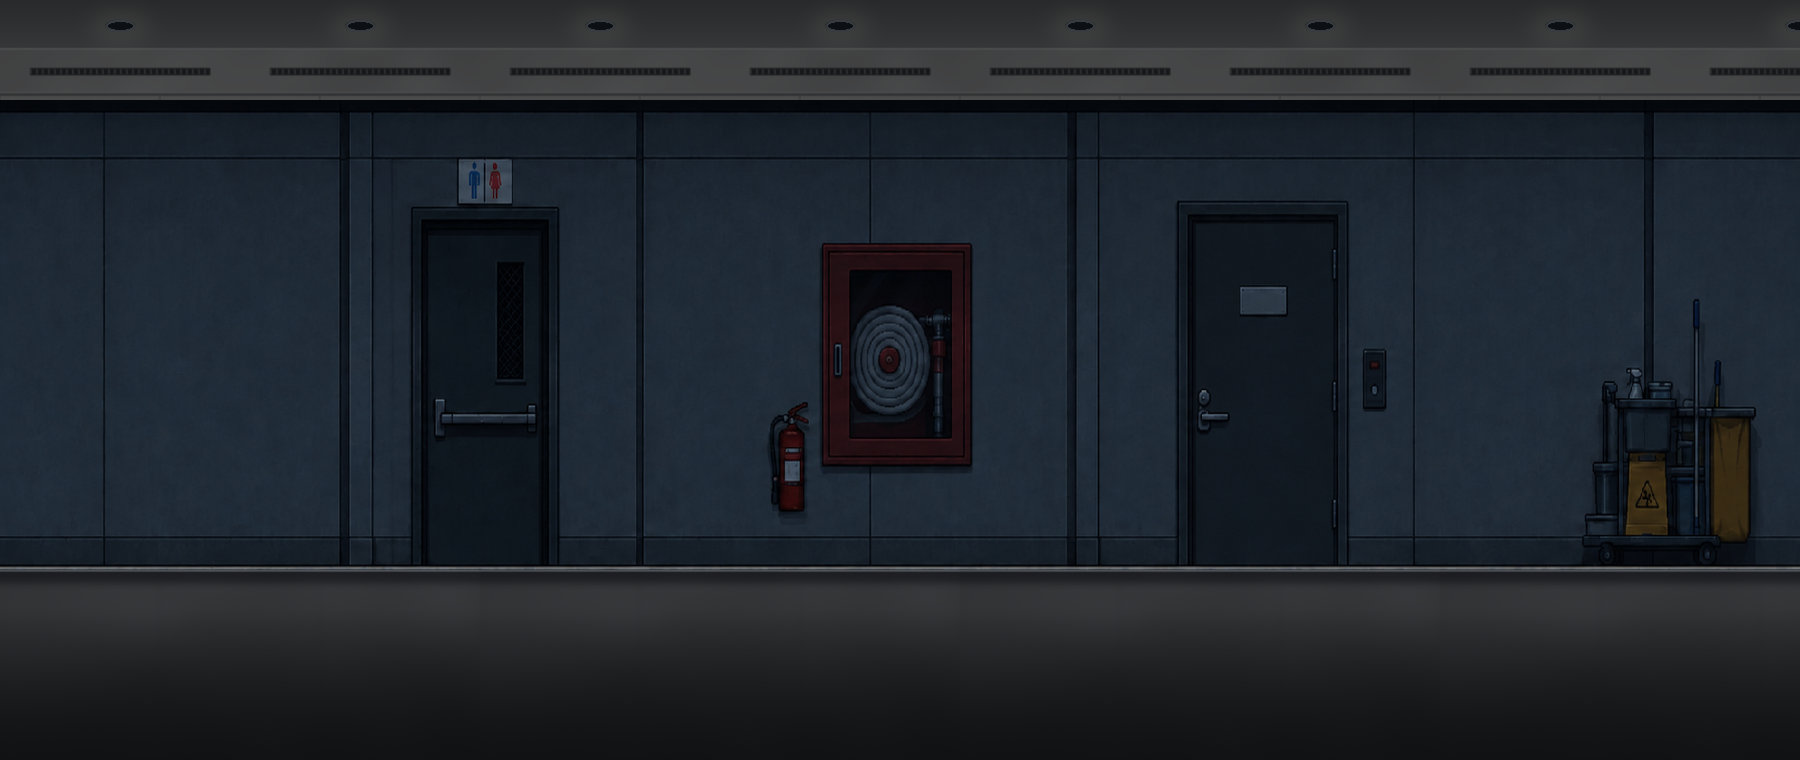
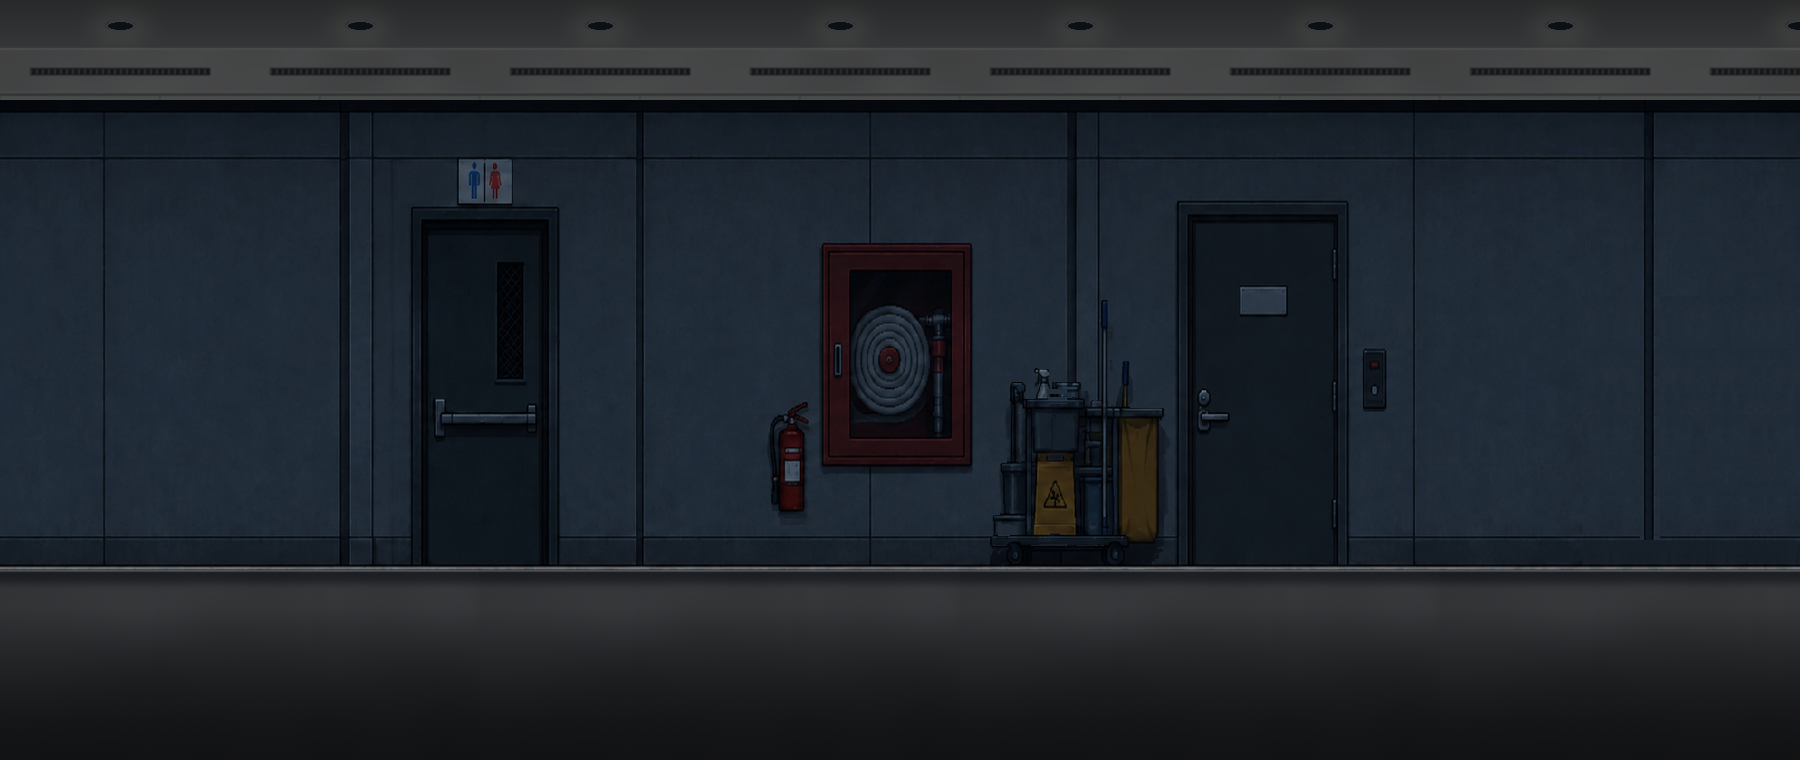
17층·1층 퇴근 동선 정리: 옥상 열쇠를 옥상문 옆 비상 열쇠함으로, 청소 카트를 관리자실 문 왼쪽으로, 분배반 안내도 선행 조건 제거, 1층 안내 데스크 충전 콘센트 추가, 태양광 전 어둠 정신력 감소 절반

Changed region(s): [[0.8711, 0.4842, 0.9956, 0.7566], [0.5289, 0.4842, 0.6533, 0.7566]]

diff --git a/js/interaction/inventory.js b/js/interaction/inventory.js
@@ -81,12 +81,21 @@ function openHydrant() {
   image.src = 'assets/ui/hydrant-interior.png';
   image.alt = '붉은 철문이 열린 소화전. 내부에 천 호스, 황동 밸브와 금속 관창이 있고 아래에 선반이 있다.';
   image.draggable = false;
-  const description = writingNode('p', 'item-description', '호스와 관창이 정리되어 있다. 아래 선반에 낡은 열쇠가 놓여 있다.');
+  const description = writingNode('p', 'item-description', '호스와 관창이 정리되어 있다.');
   description.id = 'item-description';
-  description.setAttribute('role', 'status');
   cabinet.append(image);
   const content = writingNode('div', 'item-panel');
   content.append(cabinet, description);
+  openItemPanel('17층 소화전', description.textContent, 'hydrant', content);
+}
+
+// 옥상문 옆 비상 열쇠함(corridor17.js). 옥상문 열쇠를 여기서 줍는다.
+function openKeyBox() {
+  const description = writingNode('p', 'item-description', '걸이에 낡은 열쇠가 하나 걸려 있다.');
+  description.id = 'item-description';
+  description.setAttribute('role', 'status');
+  const content = writingNode('div', 'item-panel inventory-content');
+  content.append(description);
   if (!collectedItems.has('rooftop-key')) {
     const key = itemButton('rooftop-key');
     key.setAttribute('aria-label', '낡은 열쇠 줍기');
@@ -101,12 +110,12 @@ function openHydrant() {
       refreshInventoryCount();
       showItemAcquired('rooftop-key');
     });
-    cabinet.append(key);
+    content.append(key);
   } else {
-    description.textContent = '호스와 관창은 그대로다. 열쇠는 이미 챙겼다.';
+    description.textContent = '열쇠 걸이가 비어 있다. 열쇠는 이미 챙겼다.';
   }
-  openItemPanel('17층 소화전', description.textContent, 'hydrant', content);
-  cabinet.querySelector('button')?.focus({ preventScroll: true });
+  openItemPanel('비상 열쇠함', description.textContent, 'key-box', content);
+  content.querySelector('button')?.focus({ preventScroll: true });
 }
 
 function openCleaningCart() {
@@ -194,7 +203,7 @@ function openCleaningCart() {
 
 function openRooftopLock() {
   const content = writingNode('div', 'item-panel inventory-content');
-  const description = writingNode('p', 'item-description', '비상문이 잠겨 있다. 소화전에서 찾은 열쇠로 문을 열 수 있을 것 같다.');
+  const description = writingNode('p', 'item-description', '비상문이 잠겨 있다. 비상 열쇠함에서 찾은 열쇠로 문을 열 수 있을 것 같다.');
   description.id = 'item-description';
   const useKey = itemButton('rooftop-key');
   useKey.querySelector('.item-name').textContent = '열쇠 사용하기';

diff --git a/js/world/corridor17.js b/js/world/corridor17.js
@@ -45,16 +45,27 @@ for (const entry of FLOOR17.rooms) {
 }
 doors.push({ name: '소화전', type: 'inspect', x: 4023, y: 248, width: 145,
   element: document.getElementById('floor17-hydrant'), container: 'hydrant',
-  message: '소화전 안에 호스와 관창이 정리되어 있다. 아래 선반에 작은 열쇠가 있다.' });
+  message: '소화전 안에 호스와 관창이 정리되어 있다.' });
 
-// 확장 복도 오른쪽 끝 청소 카트. 메모를 가린 양동이를 치우면 관리실 비상 출입 메모를 챙길 수 있다.
+// 옥상문 바로 옆 벽의 붉은 비상 열쇠함(배경 그림). 옥상문 열쇠가 여기 있어 잠긴 문 앞에서 되돌아가지 않는다.
+const keyBox = document.createElement('div');
+keyBox.id = 'floor17-key-box';
+keyBox.setAttribute('role', 'img');
+keyBox.setAttribute('aria-label', '비상 열쇠함');
+Object.assign(keyBox.style, { position: 'absolute', left: '2812px', top: '437px', width: '44px', height: '70px', pointerEvents: 'none' });
+world.insertBefore(keyBox, sprite);
+doors.push({ name: '비상 열쇠함', type: 'inspect', x: 2812, y: 437, width: 44, element: keyBox,
+  container: 'key-box', message: '옥상문 옆 비상 열쇠함이다.' });
+
+// 관리자실 문 바로 왼쪽 청소 카트(배경 그림). 복도를 따라가면 카트를 먼저 지나고 관리자실에 닿는다.
+// 메모를 가린 양동이를 치우면 관리실 비상 출입 메모를 챙길 수 있다.
 const cleaningCart = document.createElement('div');
 cleaningCart.id = 'floor17-cleaning-cart';
 cleaningCart.setAttribute('role', 'img');
 cleaningCart.setAttribute('aria-label', '청소 카트');
-Object.assign(cleaningCart.style, { position: 'absolute', left: '4784px', top: '382px', width: '171px', height: '186px', pointerEvents: 'none' });
+Object.assign(cleaningCart.style, { position: 'absolute', left: '4190px', top: '382px', width: '171px', height: '186px', pointerEvents: 'none' });
 world.insertBefore(cleaningCart, sprite);
-doors.push({ name: '청소 카트', type: 'inspect', x: 4784, y: 382, width: 171, element: cleaningCart,
+doors.push({ name: '청소 카트', type: 'inspect', x: 4190, y: 382, width: 171, element: cleaningCart,
   container: 'cleaning-cart', message: '청소 도구들이 카트 선반을 가리고 있다.' });
 
 // 배경에 그려진 CCTV 아래 게시판의 위치에 조사 영역만 겹친다.

diff --git a/js/floors/floor-01.js b/js/floors/floor-01.js
@@ -101,13 +101,16 @@ const FLOOR1_LAYOUT = {
       poweredMessage: '자동문 화면이 켜졌지만 문은 열리지 않는다: "출입 차단 · 미등록 출입증 · 17F 정수호 · 명령 SYSTEM." 내 이름이다.',
       surface: 'screen', look: 'lcd', writing: [{ text: '출입 통제 중 · SYSTEM.', size: 'large', align: 'center' }],
       caption: '회전문도 옆 자동문도 멈춰 있다. 유리 너머 거리의 가로등은 멀쩡히 켜져 있다. 문틀 위 작은 표시창만 배터리로 깜빡인다.' },
+    // 안내 데스크 왼쪽 상판(그림 y 127, 오른쪽 낮은 상판은 화분에 가린다)의 충전 콘센트.
+    // 휴대폰이 꺼진 채 1층에 갇혀도(승강기는 1층만 눌린다) 여기서 충전해 전력 앱을 쓴다.
+    { ...phoneChargerFixture(3365, floorY - (256 - 8 - 127) * 322 / 512), floor: 1 },
   ],
   props: [
     { file: 'waiting-sofa', size: [512, 256], worldWidth: 240, x: 4080 },
     { file: 'large-planter', size: [256, 512], worldWidth: 78, x: 1300 },
     // 안내 데스크: 정문이 안 열린 뒤 로비 전원을 켤 앱을 여기서 받는다(사내 Wi-Fi QR). 외부 통신은 끊겼고 사내망만 UPS로 살아 있다.
     { file: 'reception-counter', size: [512, 256], worldWidth: 322, x: 3310, name: '안내 데스크', gives: 'solar-app-installed', sound: 'phone',
-      condition: () => phoneBattery > 0 && !phoneDock, missingMessage: '시설팀 안내문에 QR 코드가 있다. 휴대폰이 없으면 찍을 수 없다.',
+      condition: () => phoneBattery > 0 && !phoneDock, missingMessage: '시설팀 안내문에 QR 코드가 있다. 켜진 휴대폰이 있어야 찍을 수 있다. 배터리가 없으면 데스크 콘센트에서 충전하자.',
       message: '안내 데스크 모니터 옆 시설팀 안내문: "정전 시 로비 출입문 전원은 \'비상 전력 제어\' 앱으로 복구하세요. 사내 Wi-Fi(UPS)에 연결해 QR을 찍으면 설치됩니다." 휴대폰을 대자 사내 Wi-Fi가 잡히고 앱이 설치됐다.',
       takenMessage: '시설팀 안내문이다. 휴대폰의 \'비상 전력 제어\' 앱으로 1층에 전력을 보내면 출입문이 다시 움직일 것이다.' },
     { file: 'large-planter', size: [256, 512], worldWidth: 78, x: 3515 },

diff --git a/js/player/sanity.js b/js/player/sanity.js
@@ -575,8 +575,9 @@ function updateSanity(elapsed) {
     const previousCalm = antianxietyCalm;
     antianxietyCalm = Math.max(0, antianxietyCalm - elapsed);
     if (previousCalm > 0 && antianxietyCalm === 0) sayLine('진정 효과가 끝났다. 어둠 속에서는 다시 정신력이 줄어든다.');
+    const darkDrain = sanityDarkDrainPerSecond * (solarEnabled ? 1 : sanityPreSolarDrainFactor);
     const rate = antianxietyCalm > 0 ? 0 : chasing ? -sanityChaseDrainPerSecond : anxiety ? -sanityAnxietyDrainPerSecond :
-      exposure === 'dark' ? -sanityDarkDrainPerSecond : exposure === 'flashlight' ? -sanityDarkDrainPerSecond * sanityFlashlightDrainFactor : 0;
+      exposure === 'dark' ? -darkDrain : exposure === 'flashlight' ? -darkDrain * sanityFlashlightDrainFactor : 0;
     // 쫓기는 동안의 감소는 10%에서 멈춘다(이미 10% 아래면 쫓겨서는 더 줄지 않는다).
     const lowest = chasing ? Math.min(sanity, sanityChaseFloor) : 0;
     sanity = Math.max(lowest, Math.min(100, sanity + rate * elapsed / 1000));

diff --git a/js/ui/objective.js b/js/ui/objective.js
@@ -79,8 +79,6 @@ const OBJECTIVES = [
     title: '관리실 비밀번호 찾기', text: '관리실은 잠겨 있다. 누군가 비밀번호를 적어 두지 않았을까?' },
   { when: () => solarEnabled && !collectedItems.has('f17-emergency-linked') && !collectedItems.has('f17-manager-unlocked'),
     title: '관리실 열기', text: '이제 관리실에 들어갈 수 있을 것 같다.' },
-  { when: () => solarEnabled && !collectedItems.has('f17-emergency-linked') && !collectedItems.has('f17-circuit-guide-read'),
-    title: '회로 안내도 확인', text: '전선을 함부로 건드릴 순 없다. 어떻게 이어야 할지 먼저 알아야 한다.' },
   { when: () => solarEnabled && !collectedItems.has('f17-emergency-linked'),
     title: '승강기 비상 회선 연결', text: '승강기에도 전력을 보내야 한다.' },
   // 1층에서 퇴근이 막히는 흐름(floor-01.js): 정문 확인 → 안내 데스크 앱 → 1층 전력. 제목을 '퇴근하기'로 두어 승강기는 1층만 눌린다(cabin.js).

diff --git a/js/core/config.js b/js/core/config.js
@@ -33,6 +33,7 @@ const f1EncounterSanityLoss = 10; // 1층에서 경비 로봇 R-01에게 처음 
 const antianxietyRestore = 50; // 항불안제를 사용했을 때의 정신력 회복량
 const antianxietyCalmMs = 60000; // 항불안제를 먹은 뒤 정신력이 전혀 닳지 않는 시간(게임 시간)
 const sanityFlashlightDrainFactor = .5; // 어둠 속에서 플래시를 켜면 어둠 감소(sanityDarkDrainPerSecond)의 이 배율로 줄어든다
+const sanityPreSolarDrainFactor = .5; // 옥상 태양광을 켜기 전(첫 정전 탐색)에는 어둠 감소를 이 배율로 늦춘다. 1층 추격 전에 바닥나지 않게.
 // 50/40/30/20/10% 미만 구간의 공포 연출 단계(1~5). sanityTierOf()가 이 경계로 계산한다.
 const sanityTierThresholds = [50, 40, 30, 20, 10];
 const sanitySlowSpeedFactor = .92; // 30% 미만 이동 속도

diff --git a/js/debug/puzzle-skip.js b/js/debug/puzzle-skip.js
@@ -2,7 +2,7 @@
 // 순서는 objective.js의 본편 목표 순서를 따른다. items는 그 퍼즐을 풀면 남는 플래그다.
 const PUZZLE_STEPS = [
   { label: '17F 정전 컷씬', at: 'office' },
-  { label: '17F 소화전 열쇠·옥상문', at: 'f17', items: ['rooftop-key', 'rooftop-unlocked'] },
+  { label: '17F 비상 열쇠함 열쇠·옥상문', at: 'f17', items: ['rooftop-key', 'rooftop-unlocked'] },
   { label: 'RF 태양광 비밀번호·전선', at: 'rooftop', items: ['roof-wires-fixed'], solar: [17] },
   { label: '17F 관리실 비밀번호·비상 회선', at: 'f17', items: ['f17-manager-memo', 'f17-manager-unlocked', 'f17-circuit-guide-read', 'f17-emergency-linked'] },
   { label: '1F 정문·안내 데스크 전력 앱', at: 'f1', items: ['f1-reached', 'f1-door-checked', 'story-f1-door-seen', 'solar-app-installed'], solar: [1] },

diff --git a/js/interaction/power.js b/js/interaction/power.js
@@ -36,7 +36,6 @@ function deviceUnpowered(door) {
 
 function openEmergencyCircuit() {
   if (collectedItems.has('f17-emergency-linked')) return openInspection('비상 전력 분배반', '회선 네 가닥이 올바르게 연결되어 있다. 별도 UPS가 승강기와 비상 설비에 전력을 공급한다.');
-  if (!collectedItems.has('f17-circuit-guide-read')) return openInspection('비상 전력 분배반', '단자 표기가 서로 다르다. 옆 책상의 비상 전력 회로 안내도를 먼저 확인하자.');
   openWirePanel(() => {
     collectedItems.add('f17-emergency-linked');
     updatePowerState();

diff --git a/js/interaction/interaction.js b/js/interaction/interaction.js
@@ -153,6 +153,7 @@ function interact() {
       openHydrant();
       return;
     }
+    if (nearbyDoor.container === 'key-box') { openKeyBox(); return; }
     if (nearbyDoor.container === 'cleaning-cart') { openCleaningCart(); return; }
     if (nearbyDoor.powerCircuit) { openEmergencyCircuit(); return; }
     if (handleB2Console(nearbyDoor)) return; // B2 삭제 중 메인 콘솔: 문을 막은 뒤면 루트 터미널(b2-ending.js)
